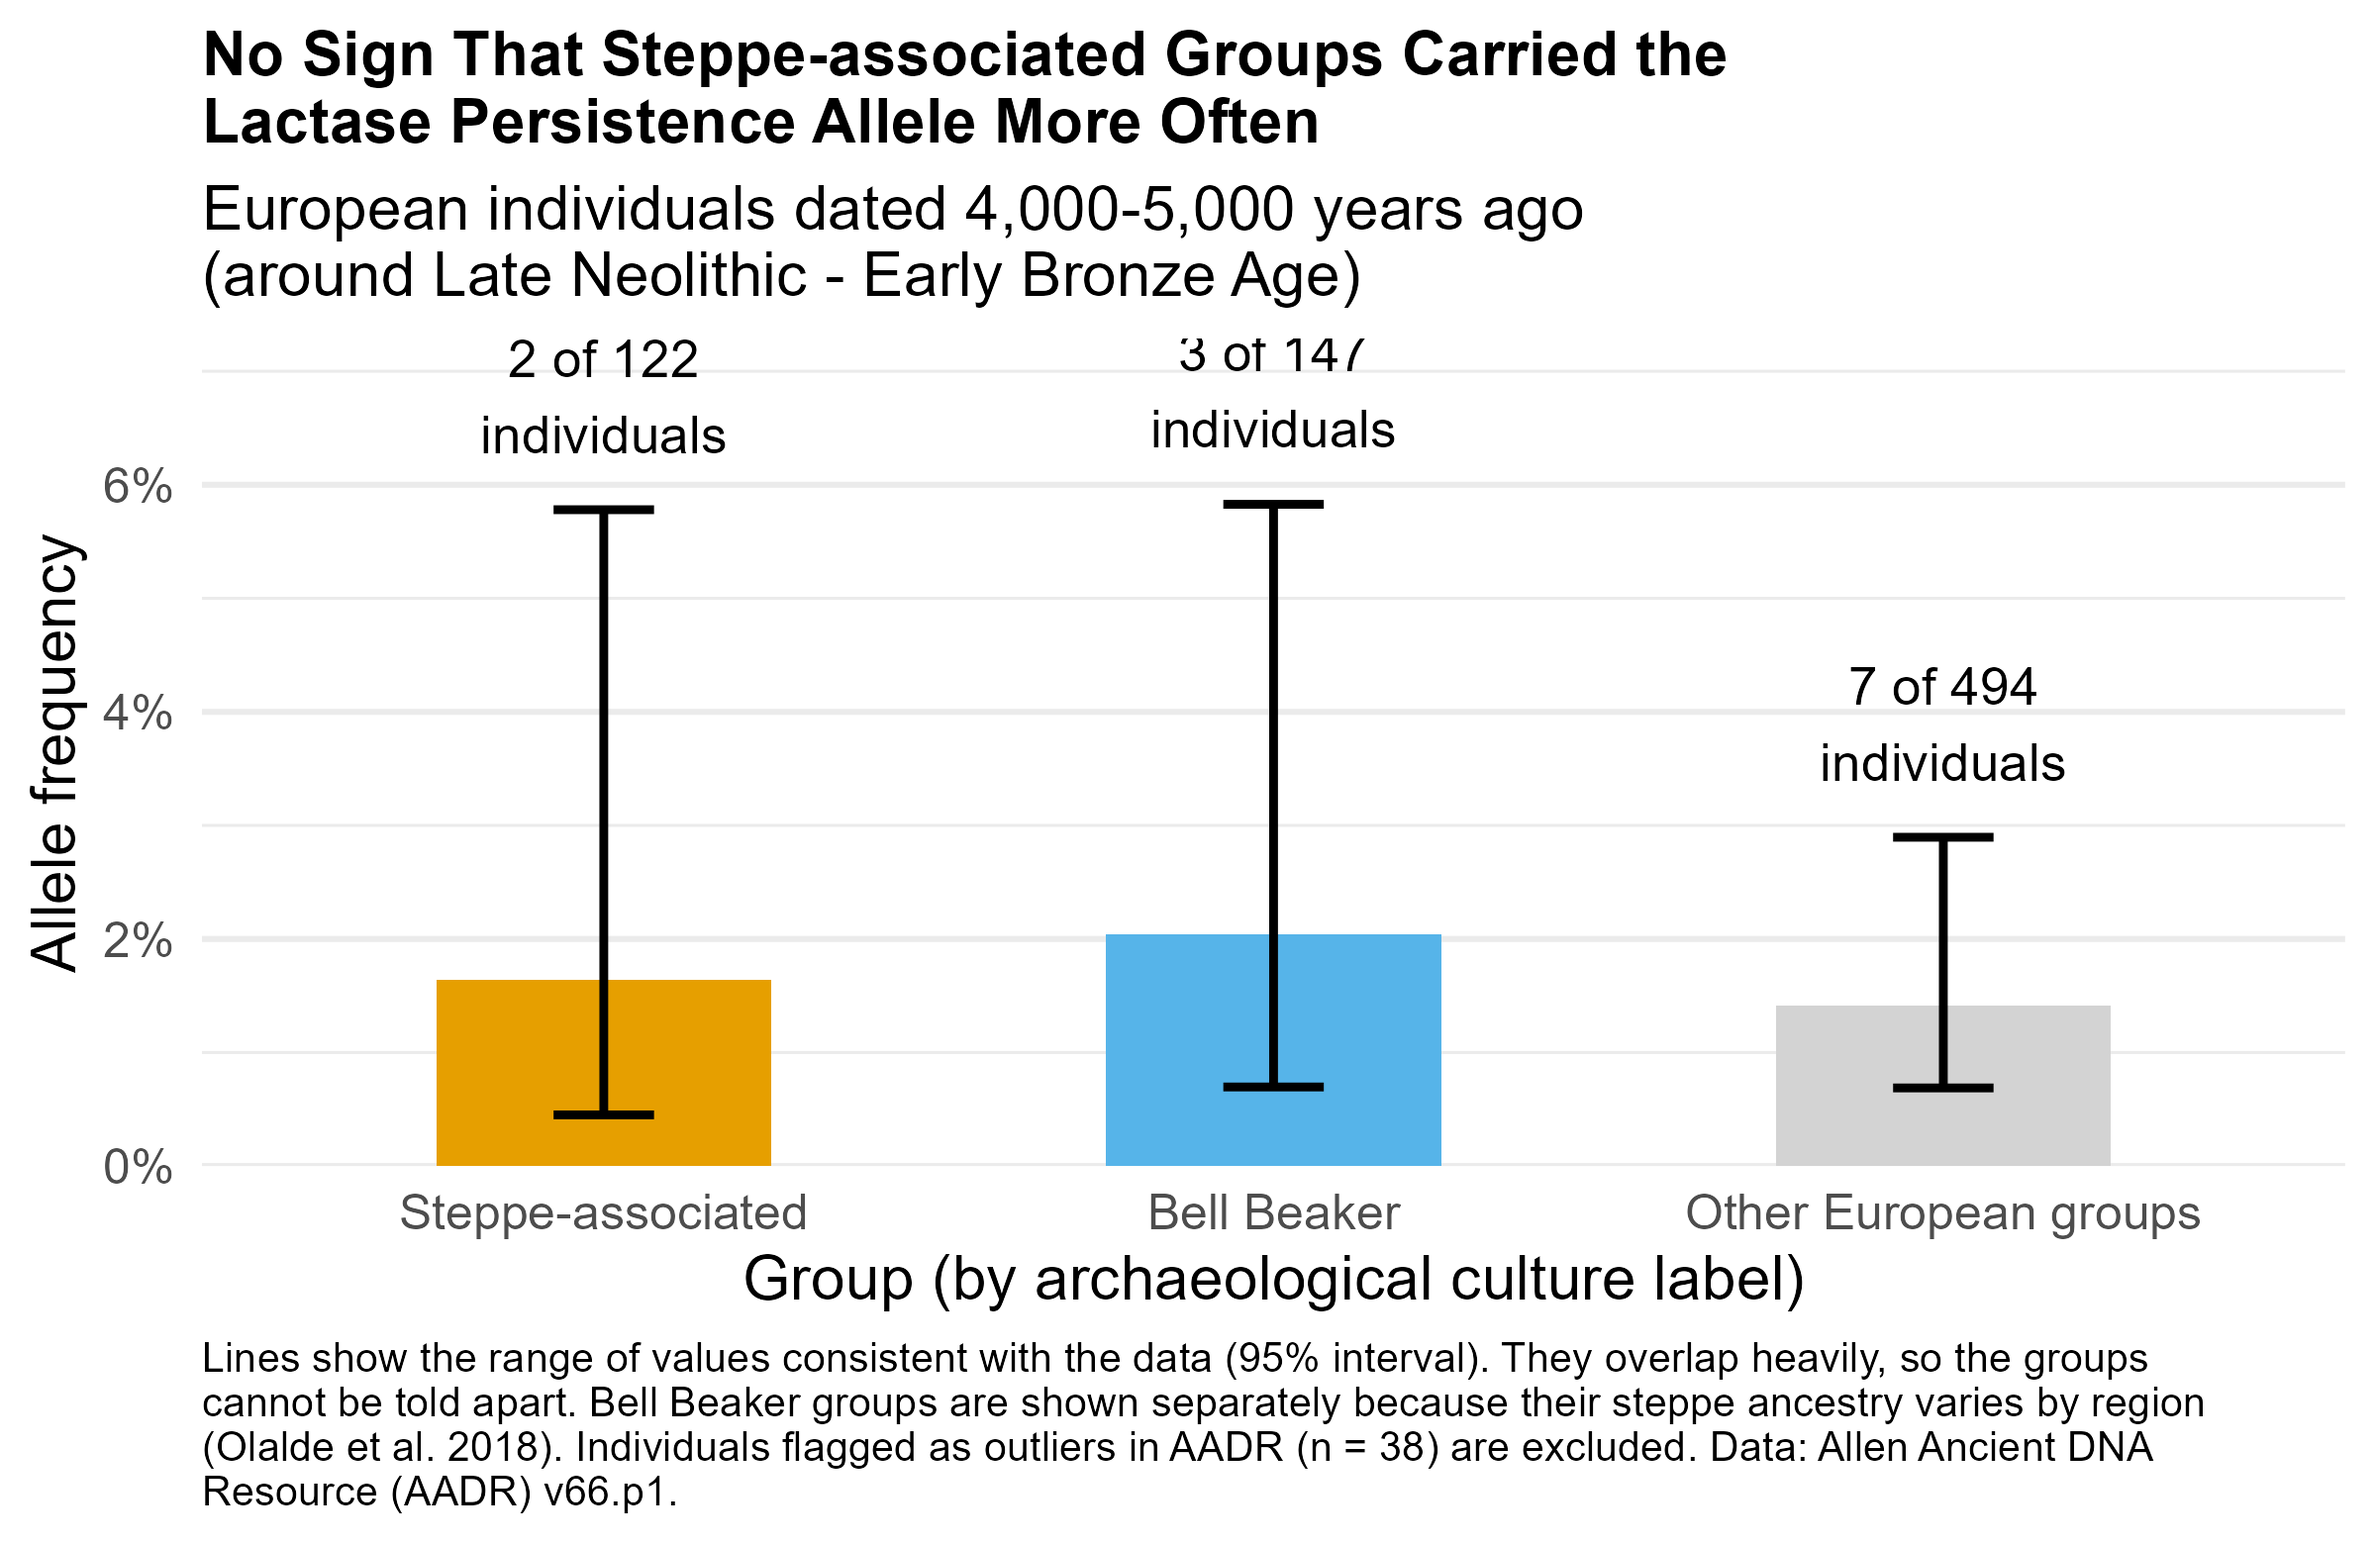
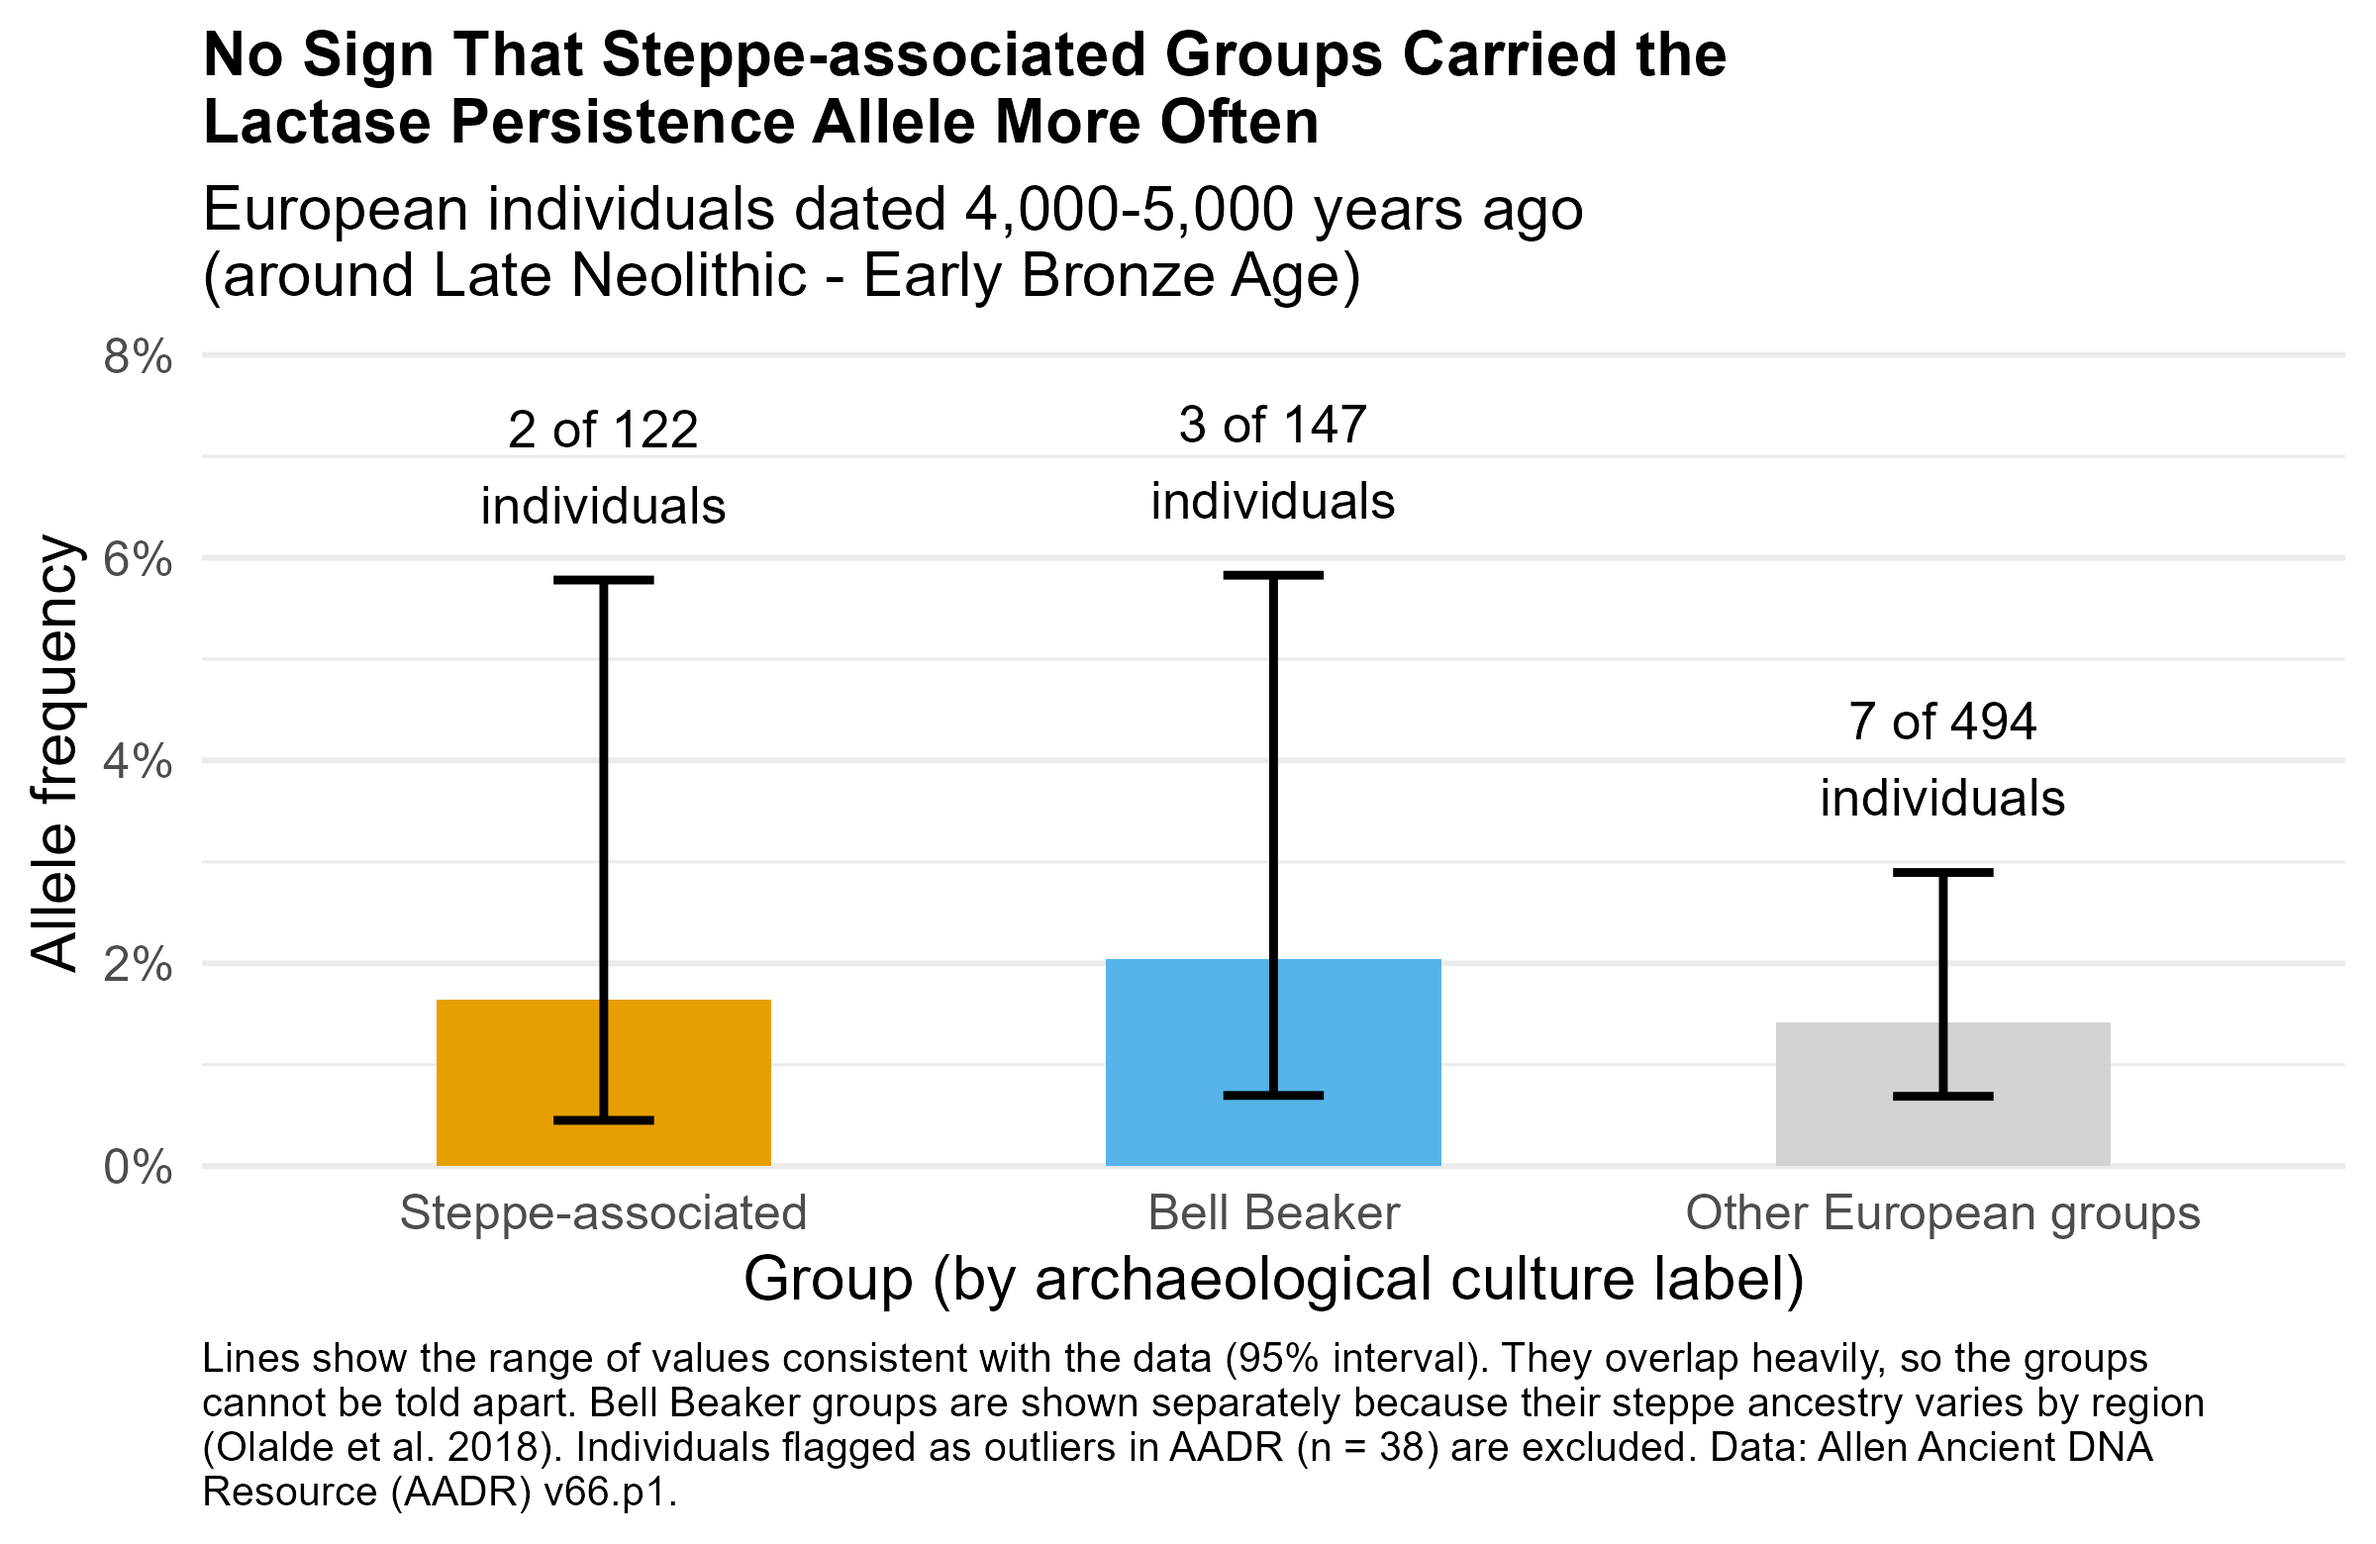
Added final fixed dimension figure to the powerpoint, final notes update

diff --git a/notes.md b/notes.md
@@ -15,10 +15,8 @@
     - To determine if these tiny percentage differences (1.6% vs 2.0% vs 1.4%) were meaningful or just random chance, I ran Fisher's exact test (`cmp()` function). The p-values were as follows: Steppe vs Others p = 0.69, Bell Beaker vs Others p = 0.70, Steppe vs Bell Beaker = 1.00. None of these was significant. The p-value of 0.69 means that a difference this small *would happen by pure chance 69% of the time*. So there is no statistical evidence that Steppe-associated groups carried the LP allele at a higher rate than other Europeans did during this period. 
 10. Wilson's 95% confidence intervals were chosen to construct the error bars and the Q2 plot was successfully constructed. 
 11. Q2 V2: Timing chart, the time series with the steppe window shaded.  Easy - just used the same data from the Q1 V1 plot and then overlayed a shade rectangle on it to show where the Steppe people came in, and then made different titles, captions, etc. 
-
-## Current: Q2 
 12: Q1 V2: Geographic Map. 6 bins that align with the binning from Q1 V1 when the Steppe were introduced. 
 One thing to note, many of the coordinates showed rounded approximations of coordinates and should be described as such - approximate locations. Many individuals will also stack on the same dot, so they will be grouped into one dot per site. 3 lacked coordinates so they were excluded. Sampling is dense in the central Europe and British Isles and thin in the North East based off of the preliminary skeleton. I chose to go with size for the amount of individuals sampeled per location and the color to show at least one carrier of the LP allele. White bordering was added for the visibility. The pattern of the dots fits the trend the Q1 time-series chart carries. The 5,000 BP panel shows almost every dot is no carrier with one green dot that looks like France. Green becomes common from 2,000-3,000 BP and dominates by 1,000-2,000. *The share of the green dots is not the allele frequency, the Q1 time-series chart shows that.*
-
+13. Per instructor feedback, I added a figure that shows regions split into northern and west, central and eastern, and southern with their respective rises. I also calculated a country table to see if groups shared countries. 
 
 # All colors are chosen to be color blind friendly

diff --git a/AI_USAGE.md b/AI_USAGE.md
@@ -639,5 +639,7 @@ loo <- do.call(rbind, lapply(
                n_without = nrow(rest), pct_without = round(100 * mean(rest$A_count) / 2, 1))
   }))
 loo[order(loo$region, loo$period), ]
+dir.create("tables", showWarnings = FALSE)
+write.csv(loo[order(loo$region, loo$period), ], "tables/regional_leave_one_out.csv", row.names = FALSE)
 ```
 This assumes the genotype column is A_count.
